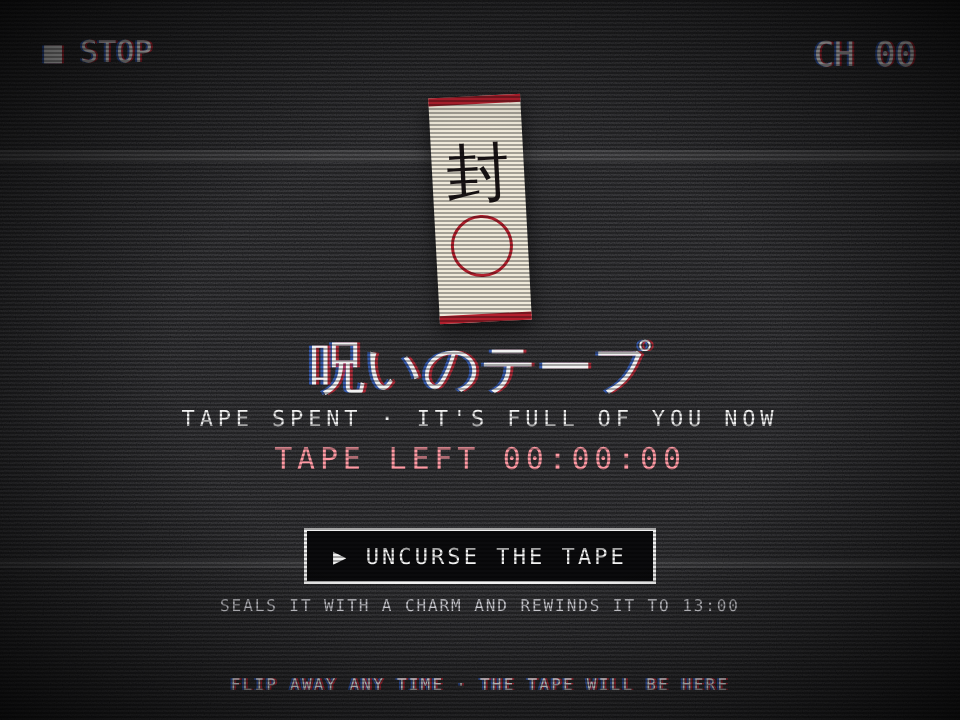
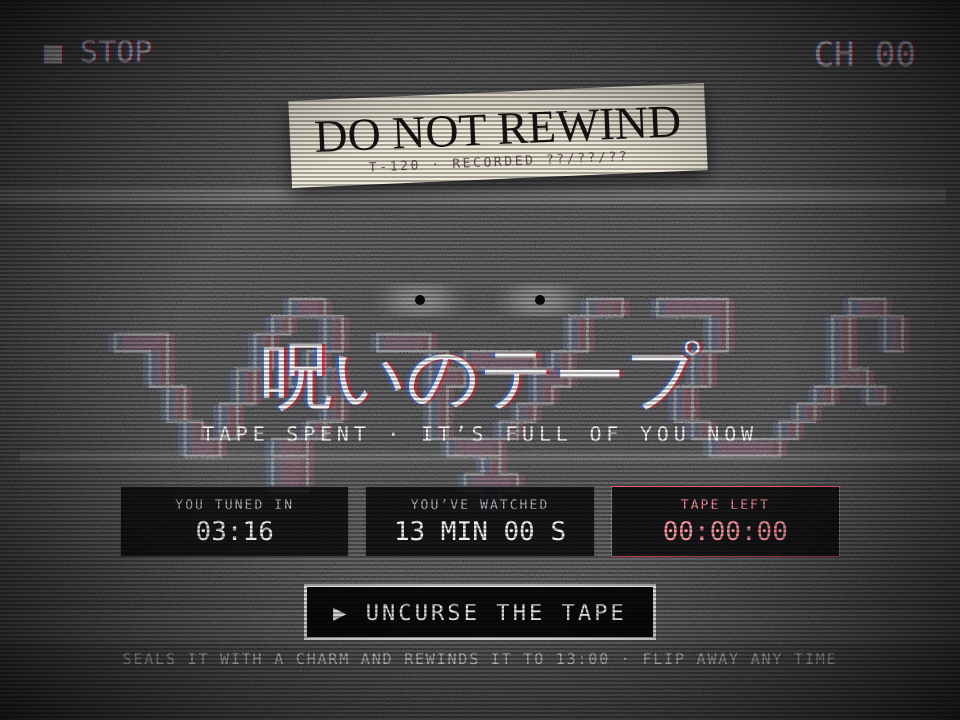
Hybrid Refactor (#6)
* Update PLAN.md for the hybrid direction and audio in v1

Hybrid Japanese + Filipino channels, Baybayin rules, 14 PRs with a new
audio PR 12, UCSB cylinder clip rules, and MK reviewing the copy sheet.

* Add hybrid and Tagalog mocks and update the mocks README

Six new boards (CH 01/03/07/09 hybrid, CH 04/06 Tagalog) and the final
CH 00 uncurse screen with the Baybayin sumpa.

* Update CLAUDE.md for the hybrid direction and audio in v1

Merged from the new starter bundle: hybrid section, Baybayin rules, Noto Sans
Tagalog, opt-in audio and cylinder-clip rules, copy review by MK. The existing
Commands and CI section is kept.

* README: audio is opt-in, copy is reviewed by MK

---------

diff --git a/docs/PLAN.md b/docs/PLAN.md
@@ -4,7 +4,7 @@ Oct 1, 2026 · @M.K. Muere
 
 ## Overview
 
-Kaidenpa is a single-page haunted CRT at tv.chibimuere.com. It broadcasts six channels between midnight and 04:44 on the visitor's own clock and goes off air the rest of the day. It ships as 13 small PRs: 6 owned by Claude Code (CC), 7 by Luna Pie.
+Kaidenpa is a single-page haunted CRT at tv.chibimuere.com. It broadcasts six channels between midnight and 04:44 on the visitor's own clock and goes off air the rest of the day. It ships as 14 small PRs: 7 owned by Claude Code (CC), 7 by Luna Pie.
 
 | Layer | Choice | Why |
 | --- | --- | --- |
@@ -12,12 +12,32 @@ Kaidenpa is a single-page haunted CRT at tv.chibimuere.com. It broadcasts six ch
 | Motion | GSAP core + SplitText + DrawSVGPlugin | Timelines can be paused, scrubbed and synced to the clock |
 | Effects | CSS first, SVG filters for still textures, one 2D canvas for static | CSS and SVG are cheap; canvas only where pixels change every frame |
 | Copy | JSON per channel + schedule.json | Luna Pie missions edit data, not markup |
-| Fonts | Dela Gothic One, DotGothic16, Zen Kaku Gothic New, self-hosted subsets | Japanese fonts are large; subsetting keeps only the glyphs we use |
+| Fonts | Dela Gothic One, DotGothic16, Zen Kaku Gothic New, Noto Sans Tagalog (Baybayin), self-hosted subsets | Japanese fonts are large; subsetting keeps only the glyphs we use |
 | Tests | Playwright (clock + timezone control) + axe-core + textlint (Japanese copy) | Every on-air, off-air and reduced-motion state is tested |
 | Hosting | GitHub Pages, CNAME tv.chibimuere.com, $0 | Same as rx.chibimuere.com |
-| Audio (v2) | Web Audio API, built into browsers, no library | Synthesized hum, static and blips cost a few KB and need no licences; opt-in only. Details in Audio (v2) below |
+| Audio (v1, opt-in) | Web Audio API, built into browsers, no library | Synthesized hum, static and blips cost a few KB and need no licences; opt-in only. Pre-1923 UCSB cylinder clips are self-hosted and credited. Details in Audio below |
 
-There's no audio in v1, so the site has no volume control. Audio is planned for v2 as an opt-in (see Audio (v2) below).
+Audio ships in v1 as an opt-in: off by default, behind a visible SOUND button with mute and pause, never autoplaying (see Audio below).
+
+## Hybrid direction (Japanese and Filipino)
+
+From 2026-10-04 Kaidenpa is a hybrid: most channels stay Japanese, CH 04 and CH 06 are Tagalog, and every channel gains a big decorative Baybayin word. The goal is to culturally reclaim Filipino cryptids and mystics, aswang above all, using the Wikipedia article on witchcraft in the Philippines and the Aswang Project as folklore sources.
+
+| Channel | Version | Baybayin accent | Notes |
+| --- | --- | --- | --- |
+| CH 01 Spirit Weather | Japanese | bakunawa | Big outlined word behind the map |
+| CH 03 Alert | Japanese | babala | Behind the title |
+| CH 04 Hypnosis | Tagalog + English | titigan, kulam | HIPNOSIS 4; spiral kept; every Tagalog line has an English line |
+| CH 06 Advice Line | Tagalog | kulam, albularyo, mangkukulam | PAYO NG 3AM; albularyo and mangkukulam hosts |
+| CH 07 Shadow Play | Japanese | aswang | Behind the shadow play |
+| CH 09 Sky Watch | Japanese | santelmo | Over the sea |
+| CH 00 Cursed Tape | Japanese | sumpa (tape-spent screen only) | Cursed tape is the Japanese original; the uncurse screen carries the big Baybayin word |
+
+Off air, the sign-off and the Haunted Tape are unchanged for now; the off-air title is an open question.
+
+**Baybayin rules.** It is decorative only. It is real Unicode text (Tagalog block, U+1700–171F) set in Noto Sans Tagalog, wrapped in `role="img"`, `lang="tl-Tglg"` and an English `aria-label`, so screen readers announce the label and skip the glyphs. Nothing may be understood only through Baybayin. The font is self-hosted as a subset like the others, and its licence is confirmed in PR 3. The mock PNGs use a fallback font, so their Baybayin looks blocky; the live canvas shows the real glyphs. MK reviews every spelling in the copy sheet.
+
+**Copy checks.** textlint stays in CI for the Japanese strings only. Tagalog lines are reviewed by MK in the copy sheet before launch; there is no automated Tagalog check.
 
 ## Broadcast timing and the midnight gate
 
@@ -123,7 +143,7 @@ When the site is off air, it still has to make sense: the test card says when th
 
 ## PR breakdown
 
-Thirteen PRs, in order. CC builds the foundations and the risky channels; Luna Pie copies patterns once CH 03 exists. Each Luna mission covers one PR and gets the CH 03 folder as its pattern file.
+Fourteen PRs, in order. CC builds the foundations and the risky channels; Luna Pie copies patterns once CH 03 exists. Each Luna mission covers one PR and gets the CH 03 folder as its pattern file.
 
 | # | PR | Owner | Depends on | Done when |
 | --- | --- | --- | --- | --- |
@@ -133,17 +153,18 @@ Thirteen PRs, in order. CC builds the foundations and the risky channels; Luna P
 | 4 | `channelController.js`, `motion.js`, `fx.js` static burst, flip queue, global pause, reduced motion | CC | 2, 3 | Flip, pause and reduced-motion tests pass on a placeholder channel |
 | 5 | CH 03 Emergency Alert, the reference channel | CC | 4 | Loop, still frame, transcript and tests all in place |
 | 6 | CH 01 Spirit Weather | Luna | 5 | Same checklist as CH 03 |
-| 7 | CH 06 Advice Line | Luna | 5 | Same checklist |
-| 8 | CH 04 Hypnosis | CC | 5 | Same checklist, plus a manual motion-comfort review |
+| 7 | CH 06 Advice Line (Tagalog) | Luna | 5 | Same checklist |
+| 8 | CH 04 Hypnosis (Tagalog + English) | CC | 5 | Same checklist, plus a manual motion-comfort review |
 | 9 | CH 07 Shadow Play | Luna | 5 | Same checklist; the neck draw also has a still frame |
 | 10 | CH 09 Sky Watch + canvas starfield | CC | 5 | Same checklist; canvas stops when hidden |
 | 11 | CH 00 Cursed Tape + `konami.js` (with a touch version) + the 04:43 Luna Pie sign-off card | Luna | 2, 5 | Konami code tunes to CH 00 on keyboard (arrows + B A) and touch (swipes + two LED taps); the tape starts at 13:00, burns only while CH 00 is watched, never refills on its own, and UNCURSE THE TAPE refills it; the counter survives a reload and a blocked `localStorage`; the sign-off plays at 04:43 in the clock tests |
-| 12 | Test matrix: every channel × {motion, reduced} × {desktop, mobile} × {on air, off air, rerun}, plus screenshot baselines | Luna (Jupiter) | 6–11 | Suite is green in CI |
-| 13 | Audit and launch: Lighthouse, axe, perf budget, OG image, project card on chibimuere.com | Luna (Mars) | 12 | Lighthouse a11y 100, perf ≥ 90 on mobile |
+| 12 | Audio (opt-in): SOUND button, `audio.js` Web Audio chain, synthesized hum, static and stingers, self-hosted pre-1923 UCSB cylinder clips, `credits.json` and a credits panel | CC | 4, 6–11 | Off by default and never autoplays; pauses with MOTION; every clip has a credits entry and a confirmed pre-1923 date; each clip ≤ 250 KB and loaded on tune |
+| 13 | Test matrix: every channel × {motion, reduced} × {desktop, mobile} × {on air, off air, rerun}, plus screenshot baselines | Luna (Jupiter) | 6–12 | Suite is green in CI |
+| 14 | Audit and launch: Lighthouse, axe, perf budget, OG image, project card on chibimuere.com | Luna (Mars) | 13 | Lighthouse a11y 100, perf ≥ 90 on mobile |
 
 PRs 6, 7, 9 and 11 can run in parallel once PR 5 merges. Use the cheaper models for 12 and 13.
 
-**Japanese copy checks in CI.** textlint with `textlint-rule-preset-ja-technical-writing` runs in CI from PR 1. textlint reads Markdown and plain text, not our channel JSON, so a small script (`scripts/extract-ja-copy.mjs`) pulls every Japanese string out of `chNN.json` and `schedule.json` into one text file, one string per line, and textlint lints that. The preset is written for technical prose, so `.textlintrc.json` turns off any rules that don't suit short display titles (for example the period rule) and notes why in a comment. It catches typos, mixed politeness levels and awkward patterns. It can't judge tone or folklore, so a native-speaker review still happens before launch.
+**Japanese copy checks in CI.** textlint with `textlint-rule-preset-ja-technical-writing` runs in CI from PR 1. textlint reads Markdown and plain text, not our channel JSON, so a small script (`scripts/extract-ja-copy.mjs`) pulls every Japanese string out of `chNN.json` and `schedule.json` into one text file, one string per line, and textlint lints that. The preset is written for technical prose, so `.textlintrc.json` turns off any rules that don't suit short display titles (for example the period rule) and notes why in a comment. It catches typos, mixed politeness levels and awkward patterns. It can't judge tone or folklore, so MK reviews the copy sheet before launch.
 
 ## Stack risks
 
@@ -165,14 +186,14 @@ The biggest risk isn't technical: most people who matter will visit during the d
 | Cursed tape storage | `localStorage` is blocked in some private windows and wiped when people clear site data, so the curse resets | Every read and write is in try/catch; with no storage the tape starts full each visit. It stays on the device and is never sent anywhere |
 | Timeline and SplitText leaks | Memory grows after many flips | `context.revert()` on exit; a test flips 50 times and checks the heap |
 | Vanilla JS state sprawl | Ad-hoc globals once six channels share state | One small store in the controller (state plus events); rethink if it passes about 150 lines |
-| Japanese copy and folklore | Awkward phrasing or careless use of folklore | textlint (ja-technical-writing preset) in CI for typos and style, then a native-speaker review before launch; the review sheet is ready |
+| Japanese copy and folklore | Awkward phrasing or careless use of folklore | textlint (ja-technical-writing preset) in CI for typos and style, MK's own review of the copy sheet before launch |
 | Luna Pie cost | Missions balloon | One PR per mission, the existing spending cap, cheaper models for tests and audits |
 
-## Audio (v2)
+## Audio (v1, opt-in)
 
-Audio waits for v2 and ships as an opt-in: a SOUND button, off by default, with no autoplay (browsers block it anyway, and WCAG 1.4.2 asks for an audio control). The choice is remembered in `localStorage` inside try/catch. The plan is one low ambient bed plus a short stinger per channel and the tuning static. We won't use commercial anime or J-pop music, including the song that inspired the look.
+Audio ships in v1 as an opt-in: a SOUND button, off by default, with no autoplay (browsers block it anyway, and WCAG 1.4.2 asks for an audio control). The choice is remembered in `localStorage` inside try/catch. The plan is one low ambient bed plus a short stinger per channel and the tuning static. We won't use commercial anime or J-pop music, including the song that inspired the look.
 
-**How v2 uses the Web Audio API** (no audio library):
+**How audio uses the Web Audio API** (no audio library):
 
 - One `audio.js` module, loaded with a dynamic `import()` the first time someone presses SOUND, so v1 never touches audio.
 - The `AudioContext` is created or resumed inside that button's click handler. Browsers, iOS Safari especially, refuse to start audio any other way, so the page never creates a context before a tap. A Playwright test checks this.
@@ -193,6 +214,15 @@ Audio waits for v2 and ships as an opt-in: a SOUND button, off by default, with 
 
 My suggestion: synthesize the hum, static and blips (zero licensing risk), and pick one or two CC BY or CC0 ambient beds for the drone, with credits in the footer.
 
+**Cylinder recordings.** Channel audio uses clips from the [UCSB Cylinder Audio Archive](https://cylinders.library.ucsb.edu/licensing.php). Per its licensing page, cylinders recorded before Dec 31, 1922 are public domain and free for any use; later cylinders' MP3s are CC BY-NC 2.5 (© The Regents of the University of California, credit required) and WAVs are paid licences. Rules:
+
+- Pre-1923 cylinders only, and each clip's recording or issue date is confirmed on its archive page before it ships.
+- Use the free MP3 downloads, trimmed to short mono loops (about 15–30 s, ≤ 250 KB). Self-host them in `public/audio/`; never hotlink the archive.
+- Credit every track anyway: a `src/audio/credits.json` entry per clip (title, performer, label and number, year, archive URL, licence), rendered in a credits/about panel. Credit line: "University of California, Santa Barbara Library, UCSB Cylinder Audio Archive."
+- Screen every clip for content: many vaudeville and minstrel-era cylinders carry racist lyrics or caricature, and those are excluded.
+- Processing on top is fine: bandpass "radio" or telephone filter, slowed playback, warble (LFO on `playbackRate`/`detune`), crackle and static, reversed buffers for CH 00.
+- The existing audio rules still hold: off by default, visible mute and pause, never autoplay (WCAG 1.4.2).
+
 ## Decisions and open questions
 
 - [x] Window: the broadcast ends at 04:44 to match the mirror warning. Sign-off runs 04:43–04:44.
@@ -200,6 +230,6 @@ My suggestion: synthesize the hum, static and blips (zero licensing risk), and p
 - [x] Touch Konami: swipes ↑↑↓↓←→←→, then two taps on the LED.
 - [x] Reruns include the Luna Pie sign-off, as a pickable 04:43 row in the guide.
 - [x] Repo: `hellomkreyes/spoopy-tv` (project name stays Kaidenpa).
-- [x] Audio: v2, opt-in, built with the Web Audio API. Options are in Audio (v2) above.
+- [x] Audio: v1, opt-in, built with the Web Audio API: synthesized hum, static and stingers plus self-hosted pre-1923 UCSB cylinder clips, each credited. Details in Audio above.
 - [x] Cursed Tape: starts with 13 minutes of tape and never refills on its own. When it runs out, an UNCURSE THE TAPE button refills it to 13:00.
-- [ ] Who does the native-speaker review of the Japanese copy? Options: HiNative (free), a Fiverr proofreader or an italki tutor. The review sheet is ready.
+- [x] Copy review: MK reviews the hybrid copy sheet herself (Tagalog lines, Japanese readings, Baybayin spellings). A native Japanese check stays optional.

diff --git a/CLAUDE.md b/CLAUDE.md
@@ -6,15 +6,22 @@ A haunted CRT you channel-flip, on air only 00:00–04:44 on the visitor's devic
 - MK is the design eye and manager; you are the engineer. **Propose a short plan and wait for approval before big changes** (new modules, architecture, dependencies, anything touching more than ~5 files).
 - One PR per step in the PR breakdown in `docs/PLAN.md`. One branch per PR (`pr-02-broadcast-clock`). Small commits. Don't start the next PR unprompted.
 - Match the mocks. If you want to deviate for technical or accessibility reasons, say so and ask.
-- Keep copy in JSON (`chNN.json`, `schedule.json`), never hard-coded in markup. Japanese copy gets a native-speaker review before launch, so don't invent folklore details.
+- Keep copy in JSON (`chNN.json`, `schedule.json`), never hard-coded in markup. The hybrid copy (Japanese readings, Tagalog lines, Baybayin spellings) is reviewed by MK before launch, so don't invent folklore details.
+
+## Hybrid direction (Japanese + Filipino), decided 2026-10-04
+- CH 04 (Hipnosis) and CH 06 (Payo ng 3AM) are Tagalog; CH 04 shows an English line under every Tagalog line. CH 01, 03, 07, 09 and CH 00 stay Japanese. See the table in `docs/PLAN.md`.
+- Every channel gets one big decorative Baybayin word (bakunawa, babala, titigan/kulam, kulam/albularyo/mangkukulam, aswang, santelmo, sumpa). Baybayin is real Unicode (U+1700–171F) in Noto Sans Tagalog, self-hosted subset. It is **decoration only**: wrap it in `role="img"` with `lang="tl-Tglg"` and an English `aria-label`; never put meaning only in Baybayin.
+- Folklore sources: Wikipedia "Witchcraft in the Philippines" and the Aswang Project. Don't invent folklore details; flag anything uncertain in the copy sheet. Portray albularyo as healers.
+- textlint covers the Japanese strings only. Tagalog copy is reviewed by MK.
+- Mock PNGs use a fallback font, so Baybayin looks blocky there; the live canvas shows the real glyphs.
 
 ## Stack
 - Vite + plain ES modules. No framework. Node LTS, `npm ci` in CI.
 - GSAP core + SplitText + DrawSVGPlugin. **Pin the exact version** (lockfile). Register plugins once in `src/motion.js`. Always create animations inside `gsap.context()` and `revert()` on exit.
-- Fonts: Dela Gothic One, DotGothic16, Zen Kaku Gothic New. **Self-host subsets** (no Google Fonts requests at runtime). `await document.fonts.ready` before any SplitText.
-- Hosting: GitHub Pages, CNAME `tv.chibimuere.com`. No custom headers, so CSP goes in a `<meta>` tag. No cookies, no analytics, no audio in v1.
+- Fonts: Dela Gothic One, DotGothic16, Zen Kaku Gothic New, Noto Sans Tagalog (Baybayin). **Self-host subsets** (no Google Fonts requests at runtime). `await document.fonts.ready` before any SplitText.
+- Hosting: GitHub Pages, CNAME `tv.chibimuere.com`. No custom headers, so CSP goes in a `<meta>` tag. No cookies, no analytics. Audio is opt-in only (PR 12).
 - Tests: Playwright (clock + timezone control) + axe-core. Unit tests for `broadcastClock`.
-- Japanese copy: textlint with `textlint-rule-preset-ja-technical-writing` in CI. textlint can't read JSON, so `scripts/extract-ja-copy.mjs` extracts every Japanese string from `chNN.json` and `schedule.json` into one text file (one string per line) that textlint lints. Turn off preset rules that don't suit short display titles in `.textlintrc.json`, with a comment saying why. It doesn't replace the native-speaker review.
+- Japanese copy: textlint with `textlint-rule-preset-ja-technical-writing` in CI. textlint can't read JSON, so `scripts/extract-ja-copy.mjs` extracts every Japanese string from `chNN.json` and `schedule.json` into one text file (one string per line) that textlint lints. Turn off preset rules that don't suit short display titles in `.textlintrc.json`, with a comment saying why. MK reviews the copy sheet before launch.
 
 ## Architecture rules
 - `src/broadcastClock.js` decides what is on air; `src/channelController.js` decides how the screen changes. Everything else feeds them or is driven by them.
@@ -26,7 +33,8 @@ A haunted CRT you channel-flip, on air only 00:00–04:44 on the visitor's devic
 - Off-air screen has one real button, drawn as a VHS tape: "PLAY THE HAUNTED TAPE · 04:20 AM". It starts a rerun with the clock frozen at 04:20 (Sky Watch on air by default), a RERUN bug, and a tracking wobble on entry. While off air the TV guide becomes a tape rack: every listing, including the 04:43 Luna Pie sign-off, has its own ▶ button (`?rerun=04`, `?rerun=so`; plain `?rerun` = Sky Watch). The frozen clock only pins the guide and on-screen time; channel loops run from tape start. When the sign-off ends, the tape ejects to the off-air card. Definition card (怪電波) and guide stay visible off air. The Haunted Tape (rerun mode) is separate from the Cursed Tape (CH 00, Konami).
 - Konami: keyboard ↑↑↓↓←→←→ B A; touch = swipes ↑↑↓↓←→←→ then two taps on the LED. Vertical swipes also flip channels, so count gestures separately from flips (flips still obey the 3/sec cap).
 - Cursed Tape (CH 00): starts with 13:00 of tape, burns only while CH 00 is watched, never refills on its own. At zero it shows the spent-tape card with a real button, UNCURSE THE TAPE, which refills it to 13:00. State in `localStorage` (try/catch). See `docs/mocks/ch00-cursed-tape.png` and `ch00-tape-spent-uncurse.png`.
-- No audio in v1. v2 audio uses the Web Audio API directly (no library): one `audio.js`, dynamically imported when SOUND is first pressed; create/resume the `AudioContext` only inside that click; sources → bus `GainNode`s → master gain (~-18 dB) → `DynamicsCompressorNode` → destination; synthesize the hum (60 Hz + harmonics), static (filtered noise buffer), blips (oscillator + envelope) and a drone (detuned saws + low-pass + LFO); subscribe to controller events, never call audio from channels; `suspend()` on hidden tab/power off; off by default, no autoplay, never rely on sound alone (WCAG 1.4.2). Licence options are in `docs/PLAN.md`, Audio (v2).
+- Audio ships in v1 as an opt-in (PR 12) and uses the Web Audio API directly (no library): one `audio.js`, dynamically imported when SOUND is first pressed; create/resume the `AudioContext` only inside that click; sources → bus `GainNode`s → master gain (~-18 dB) → `DynamicsCompressorNode` → destination; synthesize the hum (60 Hz + harmonics), static (filtered noise buffer), blips (oscillator + envelope) and a drone (detuned saws + low-pass + LFO); subscribe to controller events, never call audio from channels; `suspend()` on hidden tab/power off; off by default, no autoplay, never rely on sound alone (WCAG 1.4.2). Licence options are in `docs/PLAN.md`, Audio (v2).
+- Cylinder clips (UCSB Cylinder Audio Archive): pre-1923 recordings only, date confirmed per clip; free MP3s trimmed to short mono loops (≤ 250 KB), self-hosted in `public/audio/`, never hotlinked; one `src/audio/credits.json` entry per clip (title, performer, label/number, year, archive URL, licence) shown in a credits panel; screen out any clip with racist lyrics or caricature. Off by default, visible mute/pause, never autoplay.
 
 ## Accessibility rules (non-negotiable, enforced in tests)
 - WCAG 2.3.1: at most 3 cuts per second. The channel-flip queue is capped at 3/sec; holding an arrow key must never exceed it. Static frames are levelled to the same average brightness (±8%). No full-screen swap to saturated red.

diff --git a/docs/mocks/README.md b/docs/mocks/README.md
@@ -10,6 +10,15 @@ PNG renders of the Kaidenpa design mocks (made in Claude). Source of truth for l
 - `ch00-cursed-tape.png`: hidden Konami channel
 - `ch00-tape-spent-uncurse.png`: CH 00 once the tape runs out, with the UNCURSE THE TAPE button
 
+Hybrid versions (2026-10-04): CH 04 and CH 06 use the Tagalog boards; the others keep their Japanese look with a big decorative Baybayin word added.
+
+- `ch04-hypnosis-tagalog.png`, `ch06-advice-line-tagalog.png`: use these instead of the Japanese-era CH 04 and CH 06 above
+- `ch01-spirit-weather-hybrid.png`, `ch03-emergency-alert-hybrid.png`, `ch07-shadow-play-hybrid.png`, `ch09-sky-watch-hybrid.png`: use these instead of the Japanese-only versions above
+
+The Baybayin in these PNGs uses a fallback bitmap font, so it looks blocky; the live canvas shows the real glyphs.
+
+CH 00: `ch00-cursed-tape.png` (Japanese original) is the final cursed tape; `ch00-tape-spent-uncurse.png` is the final uncurse screen, now with the big Baybayin sumpa.
+
 Live canvas: https://claude.ai/artifact/Br7aw99VHAjeM2d4NxMMoy
 
 Note: these PNGs were rendered without the web fonts (fallback fonts for Dela Gothic One, DotGothic16 and Zen Kaku Gothic New), so use them for layout, color and composition, not exact typography. The live canvas above has the real fonts.

diff --git a/README.md b/README.md
@@ -34,7 +34,7 @@ Off air, the page offers the Haunted Tape, a rerun frozen at 04:20 (🫣). Share
 - One 2D canvas for static
 - Self-hosted font subsets
 - No cookies, no analytics, 
-- No audio in v1
+- Audio is opt-in: off by default, with a SOUND button
 - Hosted on GitHub Pages @ [https://tv.chibimuere.com](https://tv.chibimuere.com)
 
 ## Develop
@@ -54,7 +54,7 @@ npm run dev
 | `npm run test:a11y`    | Playwright + axe-core                                     |
 | `npm run lint`         | ESLint, Prettier check, and textlint on the Japanese copy |
 
-Japanese copy is linted by extracting every Japanese string from the JSON files and running textlint on the result. That catches typos and style slips but doesn't replace a native-speaker review.
+Japanese copy is linted by extracting every Japanese string from the JSON files and running textlint on the result. That catches typos and style slips; MK reviews the copy before launch.
 
 ## Accessibility
 
